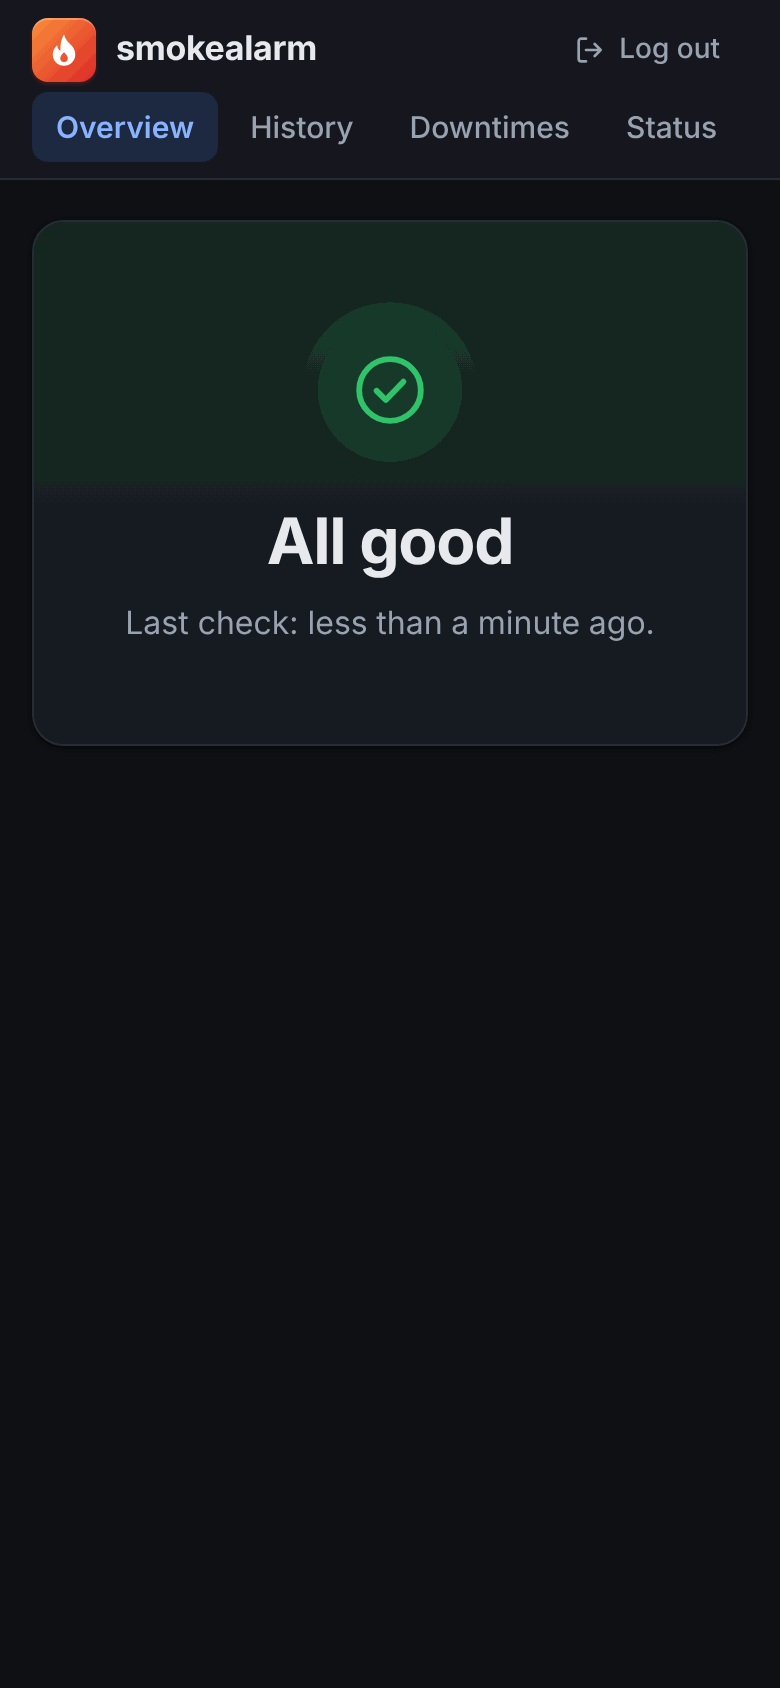
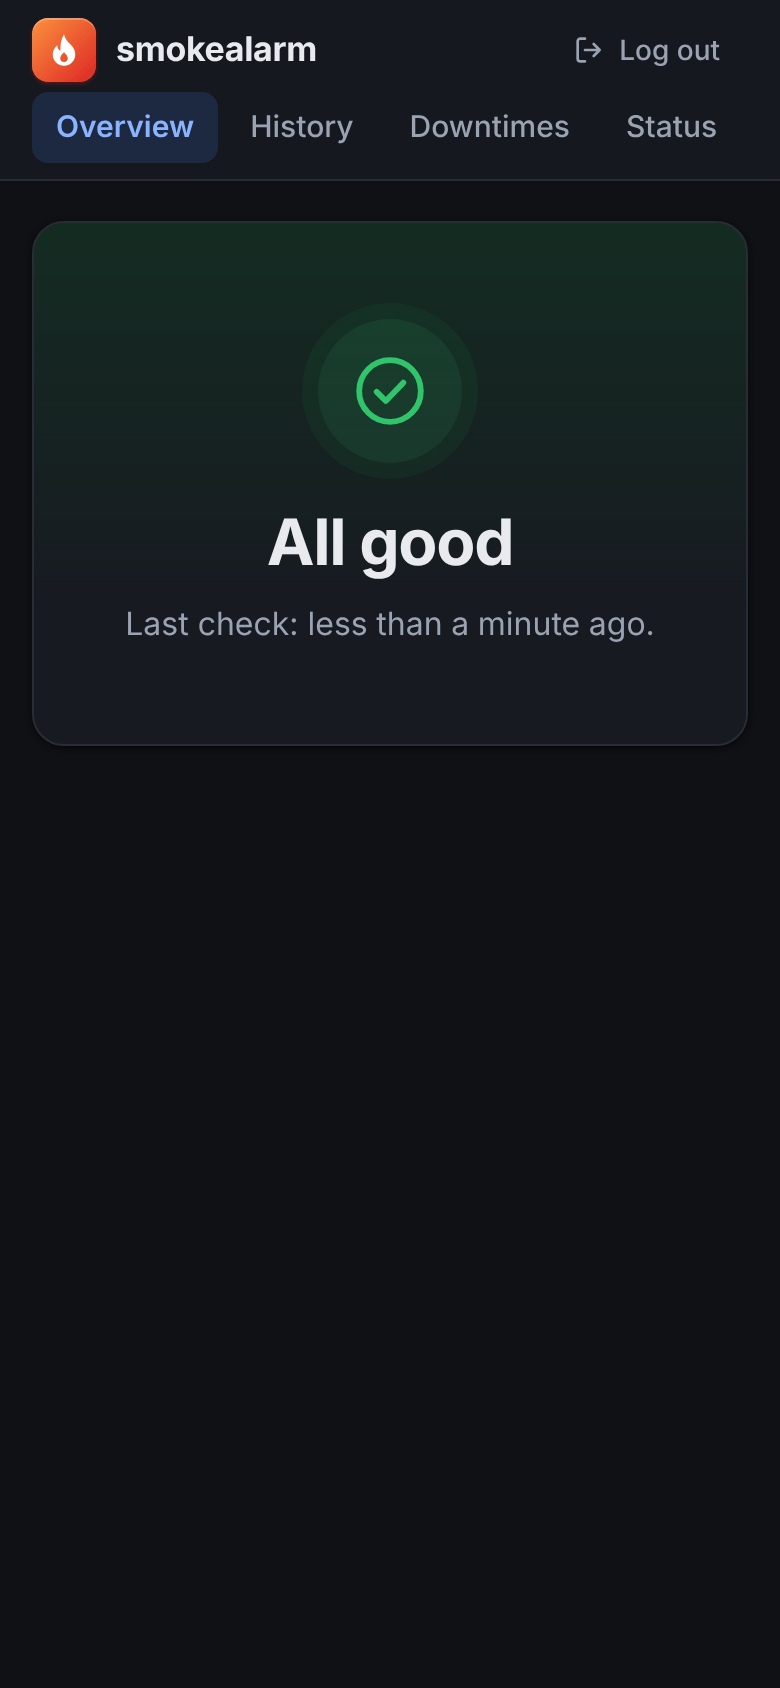
Take the README screenshots with a test
"make screenshots" runs TestScreenshots with UPDATE_SCREENSHOTS=1, like
UPDATE_GOLDEN=1 for the mails. Normal test runs skip it.

The test renders the pages from made-up data through the real handlers,
serves them with an httptest server and takes the pictures with headless
Chrome from the command line, so it needs no Node, no Playwright and no new
Go dependency. Chrome only photographs its window, so the window is taller
than the page and the test cuts off the empty background below the content.
If pngquant is installed, it reduces the images to 256 colors (about 430 KB
together instead of 1.35 MB). Two runs give identical files.

The images in docs/screenshots are taken again with this test.

Claude-Session: https://claude.ai/code/session_01Ha6KGgieEeUpXCFBemTv9R

diff --git a/internal/web/screenshots_test.go b/internal/web/screenshots_test.go
@@ -1,0 +1,337 @@
+package web
+
+import (
+	"bytes"
+	"context"
+	"fmt"
+	"image"
+	"image/color"
+	"image/draw"
+	"image/png"
+	"io"
+	"net/http"
+	"net/http/httptest"
+	"net/url"
+	"os"
+	"os/exec"
+	"path/filepath"
+	"testing"
+	"time"
+
+	"github.com/gagaschu/smokealarm/internal/checks"
+	"github.com/gagaschu/smokealarm/internal/engine"
+	"github.com/gagaschu/smokealarm/internal/store"
+)
+
+// The screenshots in the README are taken by TestScreenshots. Normal test runs
+// skip it. After a change to the look, take them again with
+//
+//	make screenshots
+//
+// and look at the new images before committing them. The test needs Google
+// Chrome or Chromium (set CHROME to its path if it is not found) and, to keep
+// the files small, pngquant.
+
+// screenshotDir is where the README expects the images, seen from this package.
+const screenshotDir = "../../docs/screenshots"
+
+// screenshot is one image for the README.
+type screenshot struct {
+	file   string // file name in screenshotDir
+	path   string // page on the test server, see screenshotPages
+	dark   bool   // dark mode instead of light mode
+	width  int    // browser window in CSS pixels; the image has twice as many
+	height int
+	trim   bool // cut off the empty background below the content
+}
+
+func screenshots() []screenshot {
+	return []screenshot{
+		// The window is taller than the page; trim removes the rest.
+		{file: "overview.png", path: "/overview", width: 1100, height: 3000, trim: true},
+		{file: "history.png", path: "/history", width: 1100, height: 3000, trim: true},
+		{file: "status.png", path: "/status", dark: true, width: 1100, height: 3000, trim: true},
+		// The size of a phone screen: only the top of the page.
+		{file: "phone-all-good.png", path: "/all-good", dark: true, width: 390, height: 844},
+		{file: "phone-overview.png", path: "/overview", dark: true, width: 390, height: 844},
+	}
+}
+
+func TestScreenshots(t *testing.T) {
+	if os.Getenv("UPDATE_SCREENSHOTS") != "1" {
+		t.Skip("set UPDATE_SCREENSHOTS=1 to take the README screenshots (make screenshots)")
+	}
+	chrome, ok := findChrome()
+	if !ok {
+		t.Fatal("Google Chrome or Chromium not found; set CHROME to its path")
+	}
+	server := httptest.NewServer(screenshotPages(t))
+	defer server.Close()
+
+	for _, shot := range screenshots() {
+		file, err := filepath.Abs(filepath.Join(screenshotDir, shot.file))
+		if err != nil {
+			t.Fatal(err)
+		}
+		takeScreenshot(t, chrome, server.URL+shot.path, file, shot)
+		if shot.trim {
+			trimBackground(t, file)
+		}
+		compressPNG(t, file)
+		t.Logf("wrote %s", file)
+	}
+}
+
+// screenshotPages renders the pages from made-up data through the real
+// handlers. The returned handler serves them without a login, so the browser
+// needs no session, and gets the stylesheet and icons from the real handler.
+func screenshotPages(t *testing.T) http.Handler {
+	e := newTestEnv(t)
+	cookie := e.login()
+	e.status = screenshotStatus()
+	get := func(path string) string {
+		return e.do(http.MethodGet, path, nil, cookie).Body.String()
+	}
+
+	pages := map[string]string{}
+	pages["/all-good"] = get("/") // before there are any problems
+	insertScreenshotProblems(t, e, cookie)
+	insertScreenshotHistory(t, e)
+	pages["/overview"] = get("/")
+	pages["/history"] = get("/history")
+	pages["/status"] = get("/status")
+
+	mux := http.NewServeMux()
+	mux.Handle("GET /static/", e.handler)
+	for path, html := range pages {
+		mux.HandleFunc("GET "+path, func(w http.ResponseWriter, _ *http.Request) {
+			w.Header().Set("Content-Type", "text/html; charset=utf-8")
+			_, _ = io.WriteString(w, html) // a failed write shows up in the image
+		})
+	}
+	return securityHeaders(mux)
+}
+
+// screenshotStatus is what the engine reports: mail is set up, and Argo CD is
+// not installed, so its checks are skipped.
+func screenshotStatus() engine.Status {
+	status := engine.Status{LastRun: testNow.Add(-12 * time.Second), NotifierName: "mail"}
+	for _, check := range checks.All() {
+		state := engine.CheckStatus{Name: check.Name, Active: true}
+		if check.Requires == checks.RequiresArgoCD {
+			state = engine.CheckStatus{
+				Name:   check.Name,
+				Reason: "Argo CD CRDs not installed (applications.argoproj.io); checked at startup",
+			}
+		}
+		status.Checks = append(status.Checks, state)
+	}
+	return status
+}
+
+// screenshotProblem is a firing problem with a message as the check writes it.
+func screenshotProblem(kind, namespace, name, reason, message string, severity checks.Severity, since time.Duration) store.Record {
+	return store.Record{
+		Finding: checks.Finding{
+			Key:      kind + "/" + namespace + "/" + name + "/" + reason,
+			Check:    "screenshot",
+			Severity: severity,
+			Object:   checks.ObjectRef{Kind: kind, Namespace: namespace, Name: name},
+			Reason:   reason,
+			Message:  message,
+		},
+		State:     store.StateFiring,
+		FirstSeen: testNow.Add(-since),
+		LastSeen:  testNow,
+	}
+}
+
+// screenshotResolved is a problem that lasted for a while and ended ago.
+func screenshotResolved(kind, namespace, name, reason, message string, severity checks.Severity, lasted, ago time.Duration) store.Record {
+	record := screenshotProblem(kind, namespace, name, reason, message, severity, ago+lasted)
+	resolvedAt := testNow.Add(-ago)
+	record.State = store.StateResolved
+	record.ResolvedAt = &resolvedAt
+	return record
+}
+
+// insertScreenshotProblems fills the overview: three critical problems, one
+// of them acknowledged, and two warnings, one of them in a downtime.
+func insertScreenshotProblems(t *testing.T, e *testEnv, cookie *http.Cookie) {
+	t.Helper()
+	node := screenshotProblem("Node", "", "pi-node-3", "NotReady",
+		"node is not ready for 26m0s (status Unknown)", checks.Critical, 26*time.Minute)
+	volume := screenshotProblem("PersistentVolumeClaim", "nextcloud", "data-nextcloud-0", "VolumeAlmostFull",
+		"88.2% full (44.1 GiB of 50.0 GiB used)", checks.Warning, 3*24*time.Hour+4*time.Hour)
+	e.insert(
+		screenshotProblem("Pod", "media", "jellyfin-7d9f8b6c4-x2kqp", "CrashLoopBackOff",
+			"container jellyfin keeps crashing (14 restarts), last exit code 1 (Error)", checks.Critical, 2*time.Hour+14*time.Minute),
+		node,
+		screenshotProblem("Pod", "home", "homeassistant-0", "ImagePullBackOff",
+			`container homeassistant cannot pull image ghcr.io/home-assistant/home-assistant:2026.13.0: Back-off pulling image "ghcr.io/home-assistant/home-assistant:2026.13.0"`,
+			checks.Critical, 9*time.Minute),
+		volume,
+		screenshotProblem("Pod", "monitoring", "loki-0", "TooManyRestarts",
+			"container loki restarted 7 times, last exit code 2 (Error)", checks.Warning, 50*time.Minute),
+	)
+	e.do(http.MethodPost, acknowledgePath(e.openRecord(node.Key).ID), url.Values{}, cookie)
+	setScreenshotDowntime(t, e, volume, 20*time.Hour+30*time.Minute)
+}
+
+// insertScreenshotHistory fills the history with resolved problems, one of
+// them in a downtime because it keeps coming back.
+func insertScreenshotHistory(t *testing.T, e *testEnv) {
+	t.Helper()
+	cronJob := screenshotResolved("CronJob", "backup", "restic-nightly", "MissedSchedule",
+		"expected run at 2026-11-02T02:00:00Z, last run: 2026-11-01T02:00:04Z", checks.Warning, 24*time.Hour, 6*time.Hour)
+	e.insert(
+		screenshotResolved("Deployment", "media", "sonarr", "NoReplicasAvailable",
+			"0/1 replicas available", checks.Critical, 30*time.Minute, 4*time.Hour+30*time.Minute),
+		cronJob,
+		screenshotResolved("Certificate", "ingress", "wildcard-example-org", "ExpiresSoon",
+			"expires in 12d 4h (2026-11-14T16:00:00Z)", checks.Warning, 24*time.Hour, 26*time.Hour),
+		screenshotResolved("Node", "", "pi-node-2", "DiskPressure",
+			"node reports DiskPressure since 2026-11-01T21:40:12Z", checks.Warning, 80*time.Minute, 37*time.Hour),
+		screenshotResolved("Pod", "home", "zigbee2mqtt-6b7c9d-wq8vz", "OOMKilled",
+			"container zigbee2mqtt was OOMKilled at 2026-10-31T04:02:11Z", checks.Warning, time.Hour, 79*time.Hour),
+	)
+	setScreenshotDowntime(t, e, cronJob, 3*24*time.Hour)
+}
+
+func setScreenshotDowntime(t *testing.T, e *testEnv, record store.Record, length time.Duration) {
+	t.Helper()
+	err := e.store.SetDowntime(t.Context(), store.Downtime{
+		Key: record.Key, Check: record.Check, Object: record.Object, Reason: record.Reason,
+		CreatedAt: testNow, ExpiresAt: testNow.Add(length),
+	})
+	if err != nil {
+		t.Fatalf("set downtime: %v", err)
+	}
+}
+
+// findChrome returns the path of Google Chrome or Chromium. CHROME overrides
+// the search.
+func findChrome() (string, bool) {
+	if path := os.Getenv("CHROME"); path != "" {
+		return path, true
+	}
+	for _, name := range []string{
+		"google-chrome", "chromium", "chromium-browser",
+		"/Applications/Google Chrome.app/Contents/MacOS/Google Chrome",
+		"/Applications/Chromium.app/Contents/MacOS/Chromium",
+	} {
+		if path, err := exec.LookPath(name); err == nil {
+			return path, true
+		}
+	}
+	return "", false
+}
+
+// takeScreenshot opens the page in a headless Chrome and saves what the window
+// shows as a PNG file. Headless Chrome uses a temporary profile, not yours.
+func takeScreenshot(t *testing.T, chrome, pageURL, file string, shot screenshot) {
+	t.Helper()
+	args := []string{
+		"--headless",
+		"--disable-gpu",
+		"--hide-scrollbars",
+		"--force-device-scale-factor=2",  // sharp on high-resolution screens
+		"--force-prefers-reduced-motion", // no animation caught halfway
+		fmt.Sprintf("--window-size=%d,%d", shot.width, shot.height),
+		"--screenshot=" + file,
+	}
+	if shot.dark {
+		args = append(args, "--force-dark-mode")
+	}
+	if os.Geteuid() == 0 {
+		// Chrome does not start as root with its sandbox, e.g. in a container.
+		args = append(args, "--no-sandbox")
+	}
+
+	// One picture takes about a second. The limit turns a hanging browser into
+	// a clear error; WaitDelay stops waiting for its helper processes.
+	ctx, cancel := context.WithTimeout(t.Context(), time.Minute)
+	defer cancel()
+	cmd := exec.CommandContext(ctx, chrome, append(args, pageURL)...)
+	cmd.WaitDelay = 5 * time.Second
+	output, err := cmd.CombinedOutput()
+	if err != nil {
+		t.Fatalf("chrome: %v\n%s", err, output)
+	}
+}
+
+// trimBackground cuts off the empty page background below the content, but
+// keeps a small margin. Chrome can only take a picture of its window, so the
+// window is taller than the page.
+func trimBackground(t *testing.T, file string) {
+	t.Helper()
+	img := readPNG(t, file)
+	bounds := img.Bounds()
+	background := img.At(bounds.Min.X, bounds.Max.Y-1)
+
+	lastContent := bounds.Min.Y
+	for y := bounds.Max.Y - 1; y > bounds.Min.Y; y-- {
+		if !rowHasOnly(img, y, background) {
+			lastContent = y
+			break
+		}
+	}
+	const margin = 64 // 32 CSS pixels at twice the density
+	bottom := min(lastContent+margin, bounds.Max.Y)
+
+	trimmed := image.NewRGBA(image.Rect(0, 0, bounds.Dx(), bottom-bounds.Min.Y))
+	draw.Draw(trimmed, trimmed.Bounds(), img, bounds.Min, draw.Src)
+	writePNG(t, file, trimmed)
+}
+
+// rowHasOnly reports whether every pixel in row y has the given color.
+func rowHasOnly(img image.Image, y int, want color.Color) bool {
+	wr, wg, wb, wa := want.RGBA()
+	for x := img.Bounds().Min.X; x < img.Bounds().Max.X; x++ {
+		r, g, b, a := img.At(x, y).RGBA()
+		if r != wr || g != wg || b != wb || a != wa {
+			return false
+		}
+	}
+	return true
+}
+
+func readPNG(t *testing.T, file string) image.Image {
+	t.Helper()
+	data, err := os.ReadFile(file)
+	if err != nil {
+		t.Fatal(err)
+	}
+	img, err := png.Decode(bytes.NewReader(data))
+	if err != nil {
+		t.Fatalf("decode %s: %v", file, err)
+	}
+	return img
+}
+
+func writePNG(t *testing.T, file string, img image.Image) {
+	t.Helper()
+	var buf bytes.Buffer
+	if err := png.Encode(&buf, img); err != nil {
+		t.Fatalf("encode %s: %v", file, err)
+	}
+	if err := os.WriteFile(file, buf.Bytes(), 0o644); err != nil {
+		t.Fatal(err)
+	}
+}
+
+// compressPNG reduces the image to 256 colors with pngquant, which keeps even
+// small colored dots. Without pngquant the file stays as it is, about three
+// times larger.
+func compressPNG(t *testing.T, file string) {
+	t.Helper()
+	pngquant, err := exec.LookPath("pngquant")
+	if err != nil {
+		t.Logf("pngquant not found, %s is not compressed", file)
+		return
+	}
+	output, err := exec.Command(pngquant, "--force", "--strip", "--speed=1", "--output", file, "--", file).CombinedOutput()
+	if err != nil {
+		t.Fatalf("pngquant: %v\n%s", err, output)
+	}
+}

diff --git a/PLAN.md b/PLAN.md
@@ -341,7 +341,7 @@ Every phase: own branch from main, unit tests with fake objects, `go build`/`go 
 
 ## 7. Deliberate deviations / decisions
 - **New look (phase 12):** icons are inline SVG in `templates/icons.html` instead of image files or an icon font, so they need no extra request, take the text color and work with the CSP `default-src 'self'`. That policy also blocks `style` attributes (a test checks the templates) and `data:` images, so color and line width of the icons are set in the stylesheet. No web fonts: the system font is used, as before. The favicon is a static SVG file under `/static/`, which needs no login. The login page has no top bar; its card shows the logo.
-- **README screenshots (phase 12):** PNG files in `docs/screenshots/`, rendered from made-up data through the real handlers and taken with a headless browser at twice the pixel density, reduced to 256 colors to keep them small. The helper for that is not in the repository. When the look changes, the screenshots have to be taken again by hand. `docs` is in `.dockerignore`, so the images do not go into the build context.
+- **README screenshots (phase 12):** PNG files in `docs/screenshots/`, taken by `TestScreenshots` in `internal/web` (`make screenshots`, which sets `UPDATE_SCREENSHOTS=1` like `UPDATE_GOLDEN=1` for the mails). It renders the pages from made-up data through the real handlers, serves them with an `httptest` server and calls headless Chrome from the command line (`--screenshot`, `--force-dark-mode`), so it needs no Node or Playwright and no new Go dependency. Chrome can only take a picture of its window, so the window is taller than the page and the test cuts off the empty background with the standard `image` packages. `pngquant`, if installed, reduces the files to 256 colors (about 430 KB together instead of about three times that). Normal test runs skip it; with `UPDATE_SCREENSHOTS=1` a missing Chrome is an error. `docs` is in `.dockerignore`, so the images do not go into the build context.
 - **Removing an acknowledgement (phase 11, rules agreed with the maintainer):** the problem then behaves like any other, and the engine needs no change. An overdue reminder or a first mail that was held back goes out in the next run, so a mail can follow right away. A grace period would need a new column or a false `firing_notified_at`. A problem that is only a warning at that moment cannot be acknowledged again until it is critical, because warnings cannot be acknowledged.
 - **Downtimes (phase 10), own table:** a downtime belongs to a key, not to a row in `findings`, because it must outlive a "resolved" and cover the problem when it returns. Object and reason are copied, because the row can reach its retention while the downtime runs. One downtime per key; a new one replaces it. `AUTOINCREMENT`, so a button on an old page cannot hit a later downtime.
 - **Downtimes (phase 10), the end:** `Unnotified` cannot find a problem that was reported before the downtime. `RunOnce` therefore runs `finishDowntimes` first: in one transaction it removes the ended downtime and clears `firing_notified_at` of a firing, unacknowledged problem. That reuses the path of an escalation (reported as new; a failed mail is retried, also after a restart), and the reminder clock runs from that mail. It has to happen before `saveState`, which writes back the markers it read. Ending early only sets `expires_at = now`, so there is one path for both.

diff --git a/README.md b/README.md
@@ -268,6 +268,7 @@ make test-race   # the same with the race detector (on Linux this needs a C comp
 make lint        # golangci-lint
 make build       # bin/smokealarm
 make chart       # lint and render the Helm chart: the defaults and every file in deploy/helm/examples
+make screenshots # take the images in docs/screenshots again (needs Chrome or Chromium, and pngquant)
 
 export SMOKEALARM_ADMIN_PASSWORD_HASH="$(make -s hash-password)"
 make run         # runs against the cluster from KUBECONFIG, UI on http://localhost:8080
